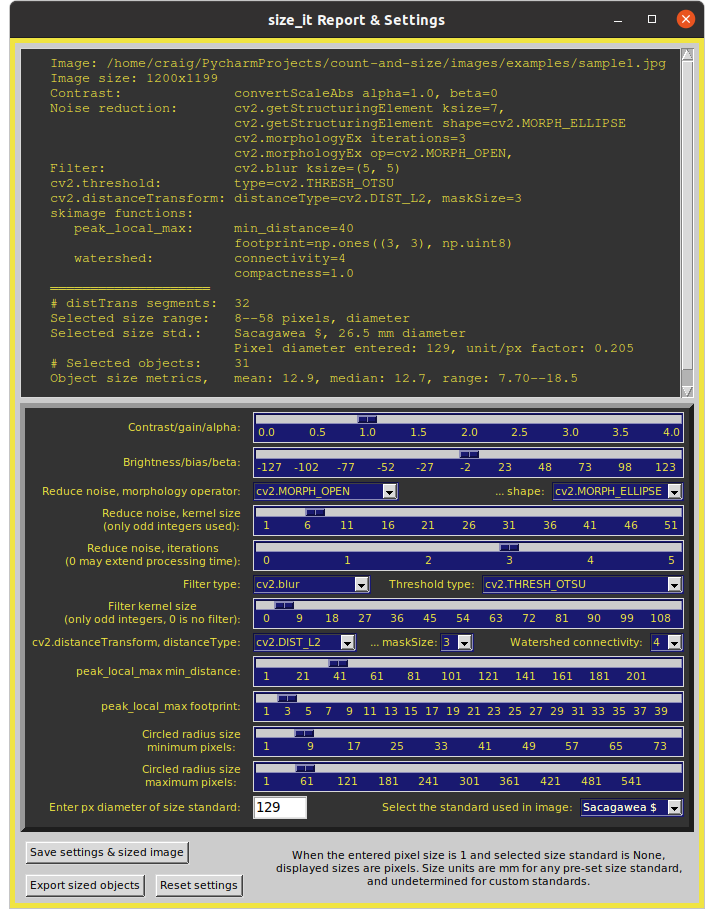
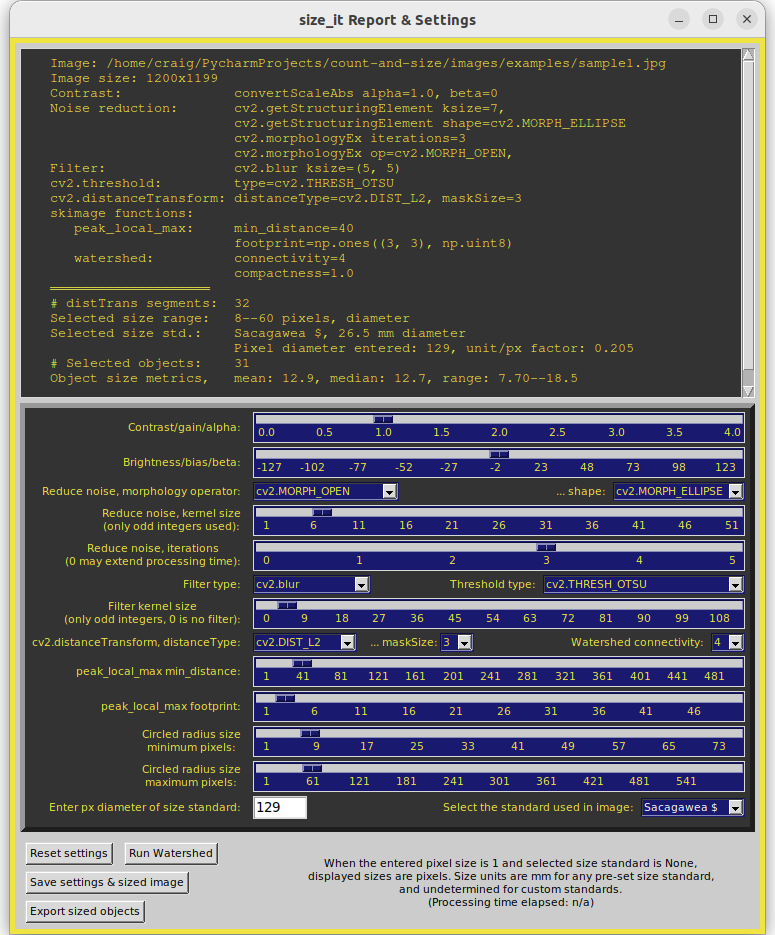
v 0.0.75: Updated screenshot.

diff --git a/README.md b/README.md
@@ -87,7 +87,7 @@ Once a file is selected, basic run parameters are set in a new pop-up window. Th
 
 ![initial settings screenshot](images/initial_settings_screenshot.png)
 
-When the "Process now" is clicked, the main settings and report window appears (below), along with multiple processed image windows. In this analysis, the Sacagawea dollar size standard was selected and its observed pixel diameter of 128 was entered. It was subsequently excluded from the reported object size metrics by reducing the 'Circled radius size maximum' until the coin no longer was annotated with its size (26.5 mm). The standard's pixel diameter of 129 was obtained from the initial result window when initial default settings were used. The report show that 31 object were found, with a mean of 12.9 mm, a median of 12.7 mm, covering a range of 7.70 to 18.4 mm.
+When the "Process now" is clicked, the main settings and report window appears (below), along with multiple processed image windows. In this analysis, the Sacagawea dollar size standard was selected and its observed pixel diameter of 128 was entered. It was subsequently excluded from the reported object size metrics by reducing the 'Circled radius size maximum' until the coin no longer was annotated with its size (26.5 mm). The standard's pixel diameter of 129 was obtained from the initial result window when initial default settings were used. The report show that 31 object were found, with a mean of 12.9 mm, a median of 12.7 mm, covering a range of 7.70 to 18.5 mm.
 
 ![settings and report screenshot](images%2Fsettings_report_screenshot.png)
 
